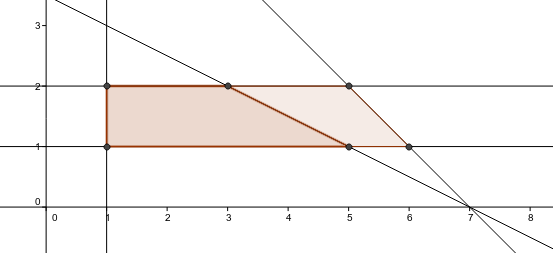
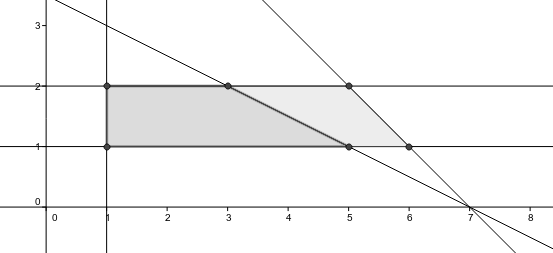
changes by LG

diff --git a/dit-paper_ieee.tex b/dit-paper_ieee.tex
@@ -85,7 +85,7 @@
 
 
 \begin{document}
-\title{Describing the C-Space of Asynchronous Periodic Task Systems using
+\title{The Space of Feasible Execution Times for Asynchronous Periodic Task Systems using
 Definitive Idle Times}
 
 
@@ -101,12 +101,12 @@ Email}
 \maketitle
 
 \begin{abstract}
-Sensitivity analysis for real-time systems asks for efficient methods to determine feasibility
-after small changes of execution times, such as when porting a system to a different platform.
-The C-space, presented in \cite{bini2004schedulability,george2009characterization}, describes the
+Sensitivity analysis for real-time systems provides for efficient methods to determine feasibility
+conditions  in the case of small changes in task parameters, such as when porting a system to a
+different platform. The C-space, presented in \cite{bini2004schedulability,george2009characterization}, describes the
 set of execution times for which a system is feasible. This paper extends previous works to
-generalize the description of the C-space for Earliest Deadline First scheduling to asynchronous
-systems and non-pairwise coprime periods. The feasibility gain offered by offsets is then
+generalize the description of the C-space for Earliest Deadline First scheduling to
+systems with initial offset. The feasibility gain offered by offsets is then
 expressed as the volume ratio between the C-space of an asynchronous system and its corresponding
 synchronous system.
 \end{abstract}
@@ -122,67 +122,75 @@ synchronous system.
 %\IEEEpeerreviewmaketitle
 
 
-\section*{TODO}
-
-\begin{itemize}
-	\item changer CDF
-	\item Expliquer simulation plus en d\'etail (GLPK)
-	\item Donner un algo pour CRP
-	\item fix bibliography
-\end{itemize}
-
 \section{Introduction}
 
 	Abstract models for real-time systems often require the determination of the
-	(worst-case) computation time of a job (WCET), a value highly dependent on the
+	(worst-case) execution time of a job (WCET), a value highly dependent on the
 	platform on which the application is deployed.
+
+	Feasibility conditions...
 
 	The \emph{C-space} of a real-time system is, intuitively,
 	the set of WCET values for which this system would be feasible. A
 	precise and efficient description of its C-space would allow to quickly decide
 	whether or not a system is feasible on a given platform.
 
-	In this section the current description of the C-space of synchronous
-	constrained systems, which has been mostly covered by \cite{george2009characterization}, is reviewed.
+    In section~\ref{sct:relatedWorks}, the description of the C-space of synchronous
+	constrained systems, which has been mostly covered by \cite{george2009characterization}, is revisited.
+	This description is based on the DBF feasibility condition described in
+	\cite{baruah1999generalized,baruah1990algorithms} and is found with exponential complexity using
+	the notion of definitive idle times (DIT).
 
+	In section~\ref{sct:asyncDIT}, we present an extension of the concept of DIT adapted to the
+	asynchronous case called first periodic DIT
+    ($t_d$) along with an algorithm to determine its existence and value for any system,
+    then we show the influence of some factors on its existence.
+
+    In Section~\ref{sct:asyncCspace}, we show how to describe the C-space of an asynchronous
+    system based on the DBF test, we show why the interval $[t_d, t_d + H]$ is
+    sometimes sufficient to consider and we give a numerical example.
+
+    Finally, in section~\ref{sct:expCspaceGain}, we use a simulation to quantify the feasibility
+    gain of asynchronous system in terms of volume of the C-space.
+
+\section{Related works}
+\label{sct:relatedWorks}
 	\subsection{Model}
 
 		We consider a discrete timeline and tasks systems $\tau$ comprised of periodic concrete
 		tasks with constrained deadlines on uniprocessor platforms. Each task
 		$\tau_i$ is represented by a tuple $(O_i, C_i, D_i, T_i)$ where $O_i$ is the offset value,
 		$C_i$ the WCET, $D_i$ the relative deadline and $T_i$ the period.
-		The constrained deadline property implies that $D_i \leq T_i \; \forall i$. In
+		The constrained deadline property implies that $\forall i,\; D_i \leq T_i$. In
 		the following, we differentiate between \emph{synchronous systems} (where $O_i
 		= 0 \; \forall i$) and \emph{asynchronous systems} (which are not synchronous).
 
-		For those systems, the \emph{Earliest Deadline First} (EDF) algorithm, in
+		For those systems, the preemptive \emph{Earliest Deadline First} (EDF) algorithm, in
 		which jobs are prioritized according to their absolute deadline, has been
 		shown to be optimal \cite{liu1973scheduling}, which means it
 		correctly schedules any feasible system within that group.
 
 		Furthermore, the following notations are used:
 		\begin{itemize}
-			\item $\tau = \{\tau_0, \cdots, \tau_{n-1}\}$
-			\item $H = \operatorname{lcm}(T_0, \cdots, T_{n-1})$
-			\item $O_{max} = \max (O_0, \cdots, O_{n-1})$
+			\item $\tau = \{\tau_1, \cdots, \tau_{n}\}$
+			\item $H = \operatorname{lcm}(T_1, \cdots, T_{n})$
+			\item $O_{max} = \max (O_1, \cdots, O_{n})$
 			\item An \emph{idle time} is an instant $t$ at which each job that arrived
 			\emph{strictly} before $t$ has finished its execution.
-			\item A \emph{busy period} is a time interval during which there is always
-			at least one unfinished job available in the system and maximal
-			with this property. Any busy period starts and ends
-			with an idle time.
-			\item The interval between the initial time and the first
+			\item A \emph{busy period} is a time interval between two consecutive idle times in
+			which at least one job is executing.
+			\item The interval between the initial time ($t=0$) and the first
 			idle time is called the \emph{first busy period}.
 		\end{itemize}
 
 	\subsection{The DBF feasibility test}
 
-	We recall the necessary and sufficient condition explained in \cite{baruah1999generalized, baruah1990algorithms,pellizzoni2005feasibility}, based on the demand-bound function.
+	We recall the necessary and sufficient condition explained in \cite{baruah1999generalized, baruah1990algorithms}, based on the demand-bound function.
 
 	\begin{definition}
 		The \textbf{demand-bound function (DBF)}
-		defined for a task set $\tau$ and noted $\dbf{t_1, t_2}$, is equal to
-		the maximal cumulated execution time of jobs of $\tau$ contained in the
+		defined for a task set $\tau$ in a time interval $[t_1, t_2]$ and denoted $\dbf{t_1, t_2}$, is
+		equal to the maximal cumulated execution time of jobs of $\tau$ contained in the
 		closed interval $[t_1, t_2]$.
 	\end{definition}
 
@@ -193,7 +201,7 @@ synchronous system.
 	where $n_i(t_1, t_2)$ is the number of jobs of task $i$ which arrival times
 	and deadlines are both in the closed interval $[t_1, t_2]$.
 
-	The values of the $n_i$ are given by
+	The values of the $n_i$ are given by \cite{baruah1999generalized}
 	\[
 		n_i(t_1, t_2) =
 		\left\llbracket
@@ -208,7 +216,7 @@ synchronous system.
 	where $\llbracket x \rrbracket_0$ stands for $\max \{ 0, x \}$.
 
 	A necessary and sufficient condition of feasibility can easily be written
-	based on the DBF:
+	based on the DBF \cite{baruah1999generalized}
 
 	\begin{theorem}
 	\[
@@ -220,16 +228,13 @@ synchronous system.
 	\end{theorem}
 
 	\subsection{C-space of synchronous systems}
+	\label{sct:cspaceDescr}
 
-		\subsubsection{Definition}
 
 			The authors of \cite{george2009characterization} give the following definition of the C-space (based on \cite{bini2004schedulability}):
 			\begin{definition}
-				The \textbf{C-space} of a task system $\tau$ is a region of $n$ dimensions (where each dimension denotes the possible $C_i$ of a task of $\tau$) such that for any vector $C = \{ C_0, \cdots, C_{n-1}\}$ in it, $\tau$ is feasible.
+				The \textbf{C-space} of a task system $\tau$ is a region of $n$ dimensions (where each dimension denotes the possible $C_i$ of a task of $\tau$) such that for any vector $C = \{ C_1, \cdots, C_{n}\}$ in it, $\tau$ is feasible.
 			\end{definition}
-
-    \subsubsection{Description using DBF}
-      \label{sct:cspaceDescr}
 
       As explained in \cite{nemhauser1988integer}, a region of $\mathbb{N}_0^n$ such as the C-space can be described by a \emph{polytope}, or a list of parametric linear constraints (called the \emph{formulation}). The constraints must be conditions which can unequivocally decide if a point is included in the region or not. In the sequel we give a formulation for the C-space in $\mathbb{N}_0^n$ (For a formulation in $\mathbb{N}^n$, we can add $C_i \geqslant 1 \; \forall i$ to the list of constraints).
 
@@ -310,18 +315,6 @@ synchronous system.
   of constraints to only those where $t_1 = 0$, $t_2 \leqslant t_d$ and
   values of $t_2$ correspond to job deadlines. Note that the number of
   constraints is still exponential in the number of tasks.
-
-  \subsection{Our work}
-    In this paper, we extend the work of \cite{george2009characterization} to the
-    asynchronous case. In section \ref{sct:asyncDIT}, we present an extension of
-    the concept of DIT adapted to the asynchronous case called first periodic DIT
-    ($t_d$) along with an algorithm to determine its existence and value for any system,
-    then we show the influence of some factors on its existence. In Section
-    \ref{sct:asyncCspace}, we show how to describe the C-space of an asynchronous
-    system based on the DBF test, we show why the interval $[t_d, t_d + H]$ is
-    sometimes sufficient to consider and we give a numerical example.
-    Finally, in section \ref{sct:expCspaceGain}, we use a simulation to quantify the feasibility
-    gain of asynchronous system in terms of volume of the C-space.
 
 \section{DIT in asynchronous systems}
   \label{sct:asyncDIT}
@@ -602,7 +595,7 @@ Let us now consider the same system but with a synchronous pattern of arrival.
     \end{tabular}
     \end{center}
 
-The first DIT happens at time $t_d = 7$. The intervals to consider are thus of the form $[0, t]$ where $t$ is a deadline happening before or at time $t_d$. This yields 2 intervals ($[0, 2]$ and $[0, 7]$) and the following constraints describing the C-space, none of them being redundant:
+The first DIT happens at time $t_d = 7$. The intervals to consider are thus of the form $[0, t]$ where $t$ is a deadline happening before or at time $t_d$. This yields two intervals ($[0, 2]$ and $[0, 7]$) and the following constraints describing the C-space, none of them being redundant:
 $$
 \left\{
   \begin{array}{ccccc}
@@ -613,7 +606,7 @@ $$
 $$
 This time, the C-space only contains 8 points: $(1, 1)$, $(2, 1)$, $(3, 1)$, $(4, 1)$, $(5, 1)$, $(1, 2)$, $(2, 2)$, $(3, 2)$.
 
-Fig. \ref{fig:cspaceComp} shows the two C-spaces in the plane. The dark grey region is the C-space of the synchronous system and the light grey region is the surface gain given by the asynchronous system.
+Fig. \ref{fig:cspaceComp} shows the two C-spaces in the plane. The dark gray region is the C-space of the synchronous system and the light gray region is the surface gain given by the asynchronous system.
 
 \begin{figure}[h]
 \begin{center}
@@ -670,7 +663,12 @@ Fig. \ref{fig:cspaceComp} shows the two C-spaces in the plane. The dark grey reg
 
 In this paper, we presented a general approach to define the C-space of a constrained periodic task set for EDF on uniform platform. Possible future works includes an extension to the study of systems with preemption costs or running on multiprocessor platforms, as the value of the DIT does not depend on preemptions or the number of processors.
 
-Future works could also study the shape of the C-space and how it is affected by some factors. An interesting path would be the effect of the CDF on the number of constraints describing the C-space, as we know that in the implicit case this description is simple ($U_{tot} \leqslant 1$). While we quantified the feasibility gain by looking at the ratio between sizes of C-space, another approach would be to look at the ratio between the minimal distance of the pareto front of the C-space, which would give a lower bound of the gain given by the offsets.
+Future works could also study the shape of the C-space and how it is affected by some factors. An
+interesting path would be the effect of the CDF on the number of constraints describing the C-space,
+as we know that in the implicit case this description is simple ($U_{tot} \leqslant 1$). While we
+quantified the feasibility gain by looking at the ratio between sizes of C-space, another approach
+would be to look at the ratio between the minimal distance of the border of the C-space, which would
+give a lower bound of the gain given by the offsets.
 
 % conference papers do not normally have an appendix
 
